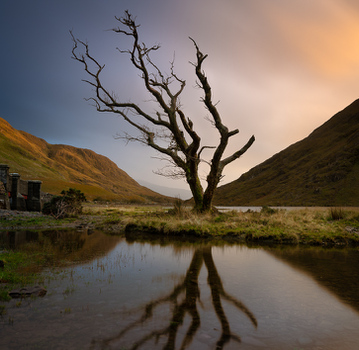
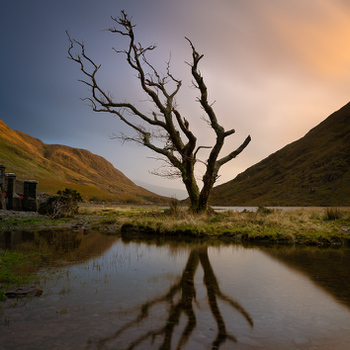
added dl pier, doo lough pier

diff --git a/README.md b/README.md
@@ -5,5 +5,5 @@ convert to thumb:
 
 ```
 cd assets/images
-ls *.jpg|xargs -I {} convert -define jpeg:size=350x350 {} -thumbnail 350x350^ -gravity center -extent 359x350 previews/{}
+ls *.jpg|xargs -I {} convert -define jpeg:size=350x350 {} -thumbnail 350x350^ -gravity center -extent 350x350 previews/{}
 ```

diff --git a/_posts/2019-01-06-dun-laoghaire-pier.md b/_posts/2019-01-06-dun-laoghaire-pier.md
@@ -1,0 +1,5 @@
+---
+image:
+  src: dun-laoghaire-pier.jpg
+title: East Pier, Dun Laoghaire, Co. Dublin
+---

diff --git a/_posts/2021-11-02-doo-lough-pier.md b/_posts/2021-11-02-doo-lough-pier.md
@@ -1,0 +1,5 @@
+---
+image:
+  src: doo-lough-pier.jpg
+title: Doo Lough, Co. Mayo
+---
